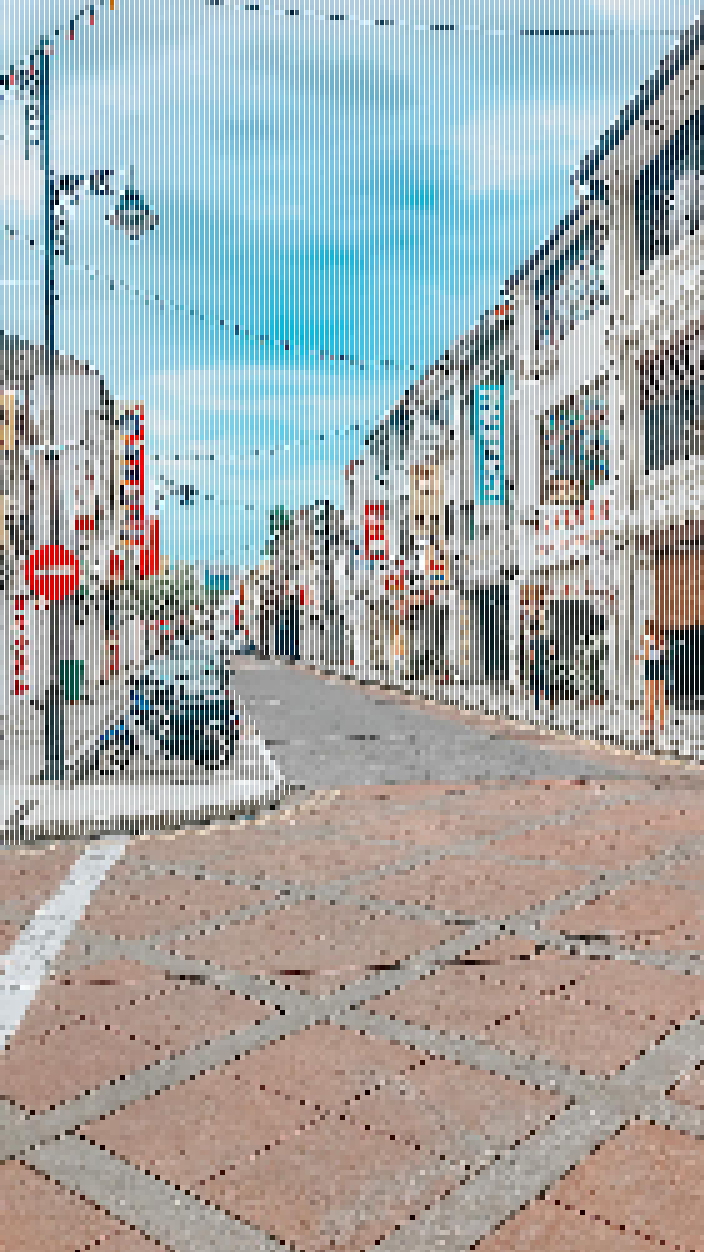
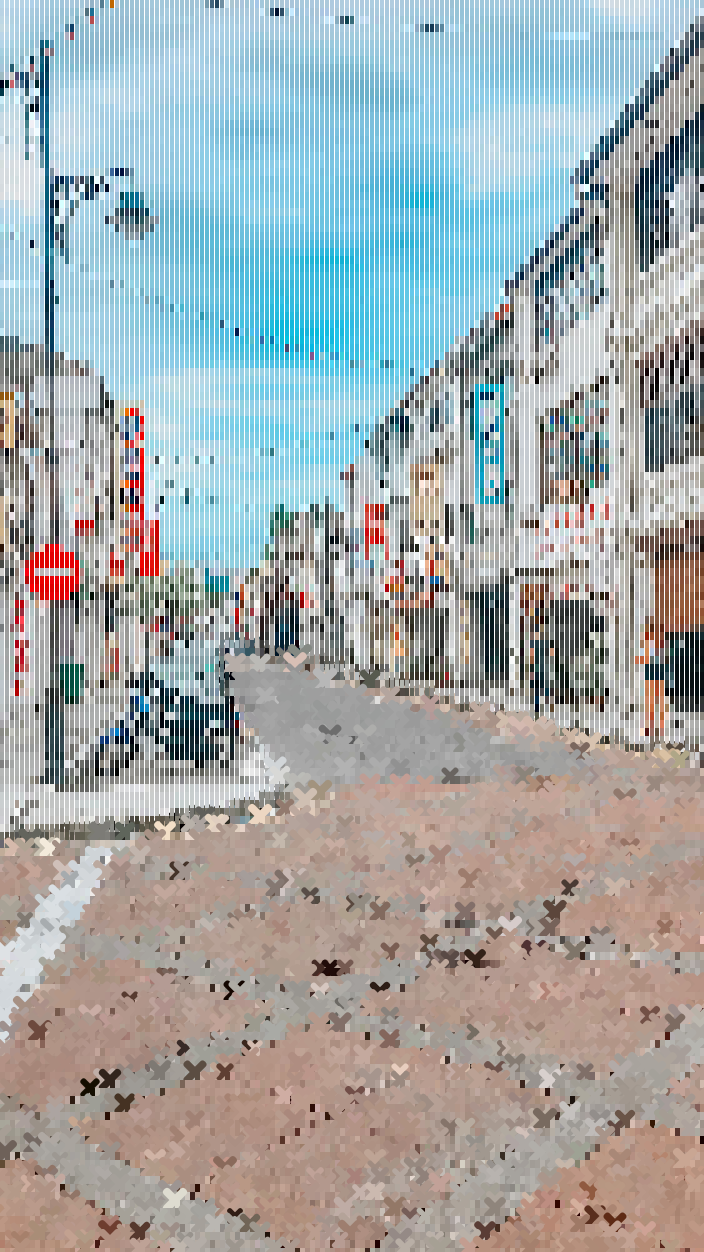
cross pixels

diff --git a/sketch.js b/sketch.js
@@ -2,9 +2,9 @@ let sourceImg=null;
 let maskImg=null;
 let renderCounter=0;
 
-let sourceFile = "input_1.jpg";
-let maskFile   = "mask_1.png";
-let outputFile = "artwork_1.png";
+let sourceFile = "input_3.jpg";
+let maskFile   = "mask_3.png";
+let outputFile = "artwork_3.png";
 
 function preload() {
   sourceImg = loadImage(sourceFile);
@@ -23,9 +23,23 @@ function setup () {
 }
 
 const tile_width =4;
-const tile_height = 10;
+const tile_height = 8;
 const tile_step_x = 5;
-const tile_step_y = 5;
+const tile_step_y = 8;
+
+function cross(x,y,s){
+  push();
+  translate(x,y);
+  scale(s);
+  let pix = sourceImg.get(x, y);
+  stroke(pix);
+  strokeWeight(10);
+  line(-10, 10, 10, -10);
+  line(10, 10, -10, -10);
+  pop();
+}
+
+
 
 function draw () {
   for(let y = 0; y < height; y = y + tile_step_y){
@@ -33,10 +47,21 @@ function draw () {
        let pix = sourceImg.get(x, y);
        let mask = maskImg.get(x, y);
        fill(pix);
+       // stroke(pix);
+
        if (mask[0] > 128){
          rect (x,y, tile_width, tile_height);
+
        }else{
          rect(x, y, tile_step_x, tile_step_y);
+         var die = int(random(0,6));
+         if (die == 3){
+           var scale = random(0.5, 0.8);
+           cross(x,y,scale);
+         }
+
+
+         // draw_line(x,y);
        }
 
     }
@@ -63,7 +88,7 @@ function draw () {
     console.log("Done!")
     noLoop();
     // uncomment this to save the result
-   // saveArtworkImage(outputFile);
+   saveArtworkImage(outputFile);
   }
 }
 
